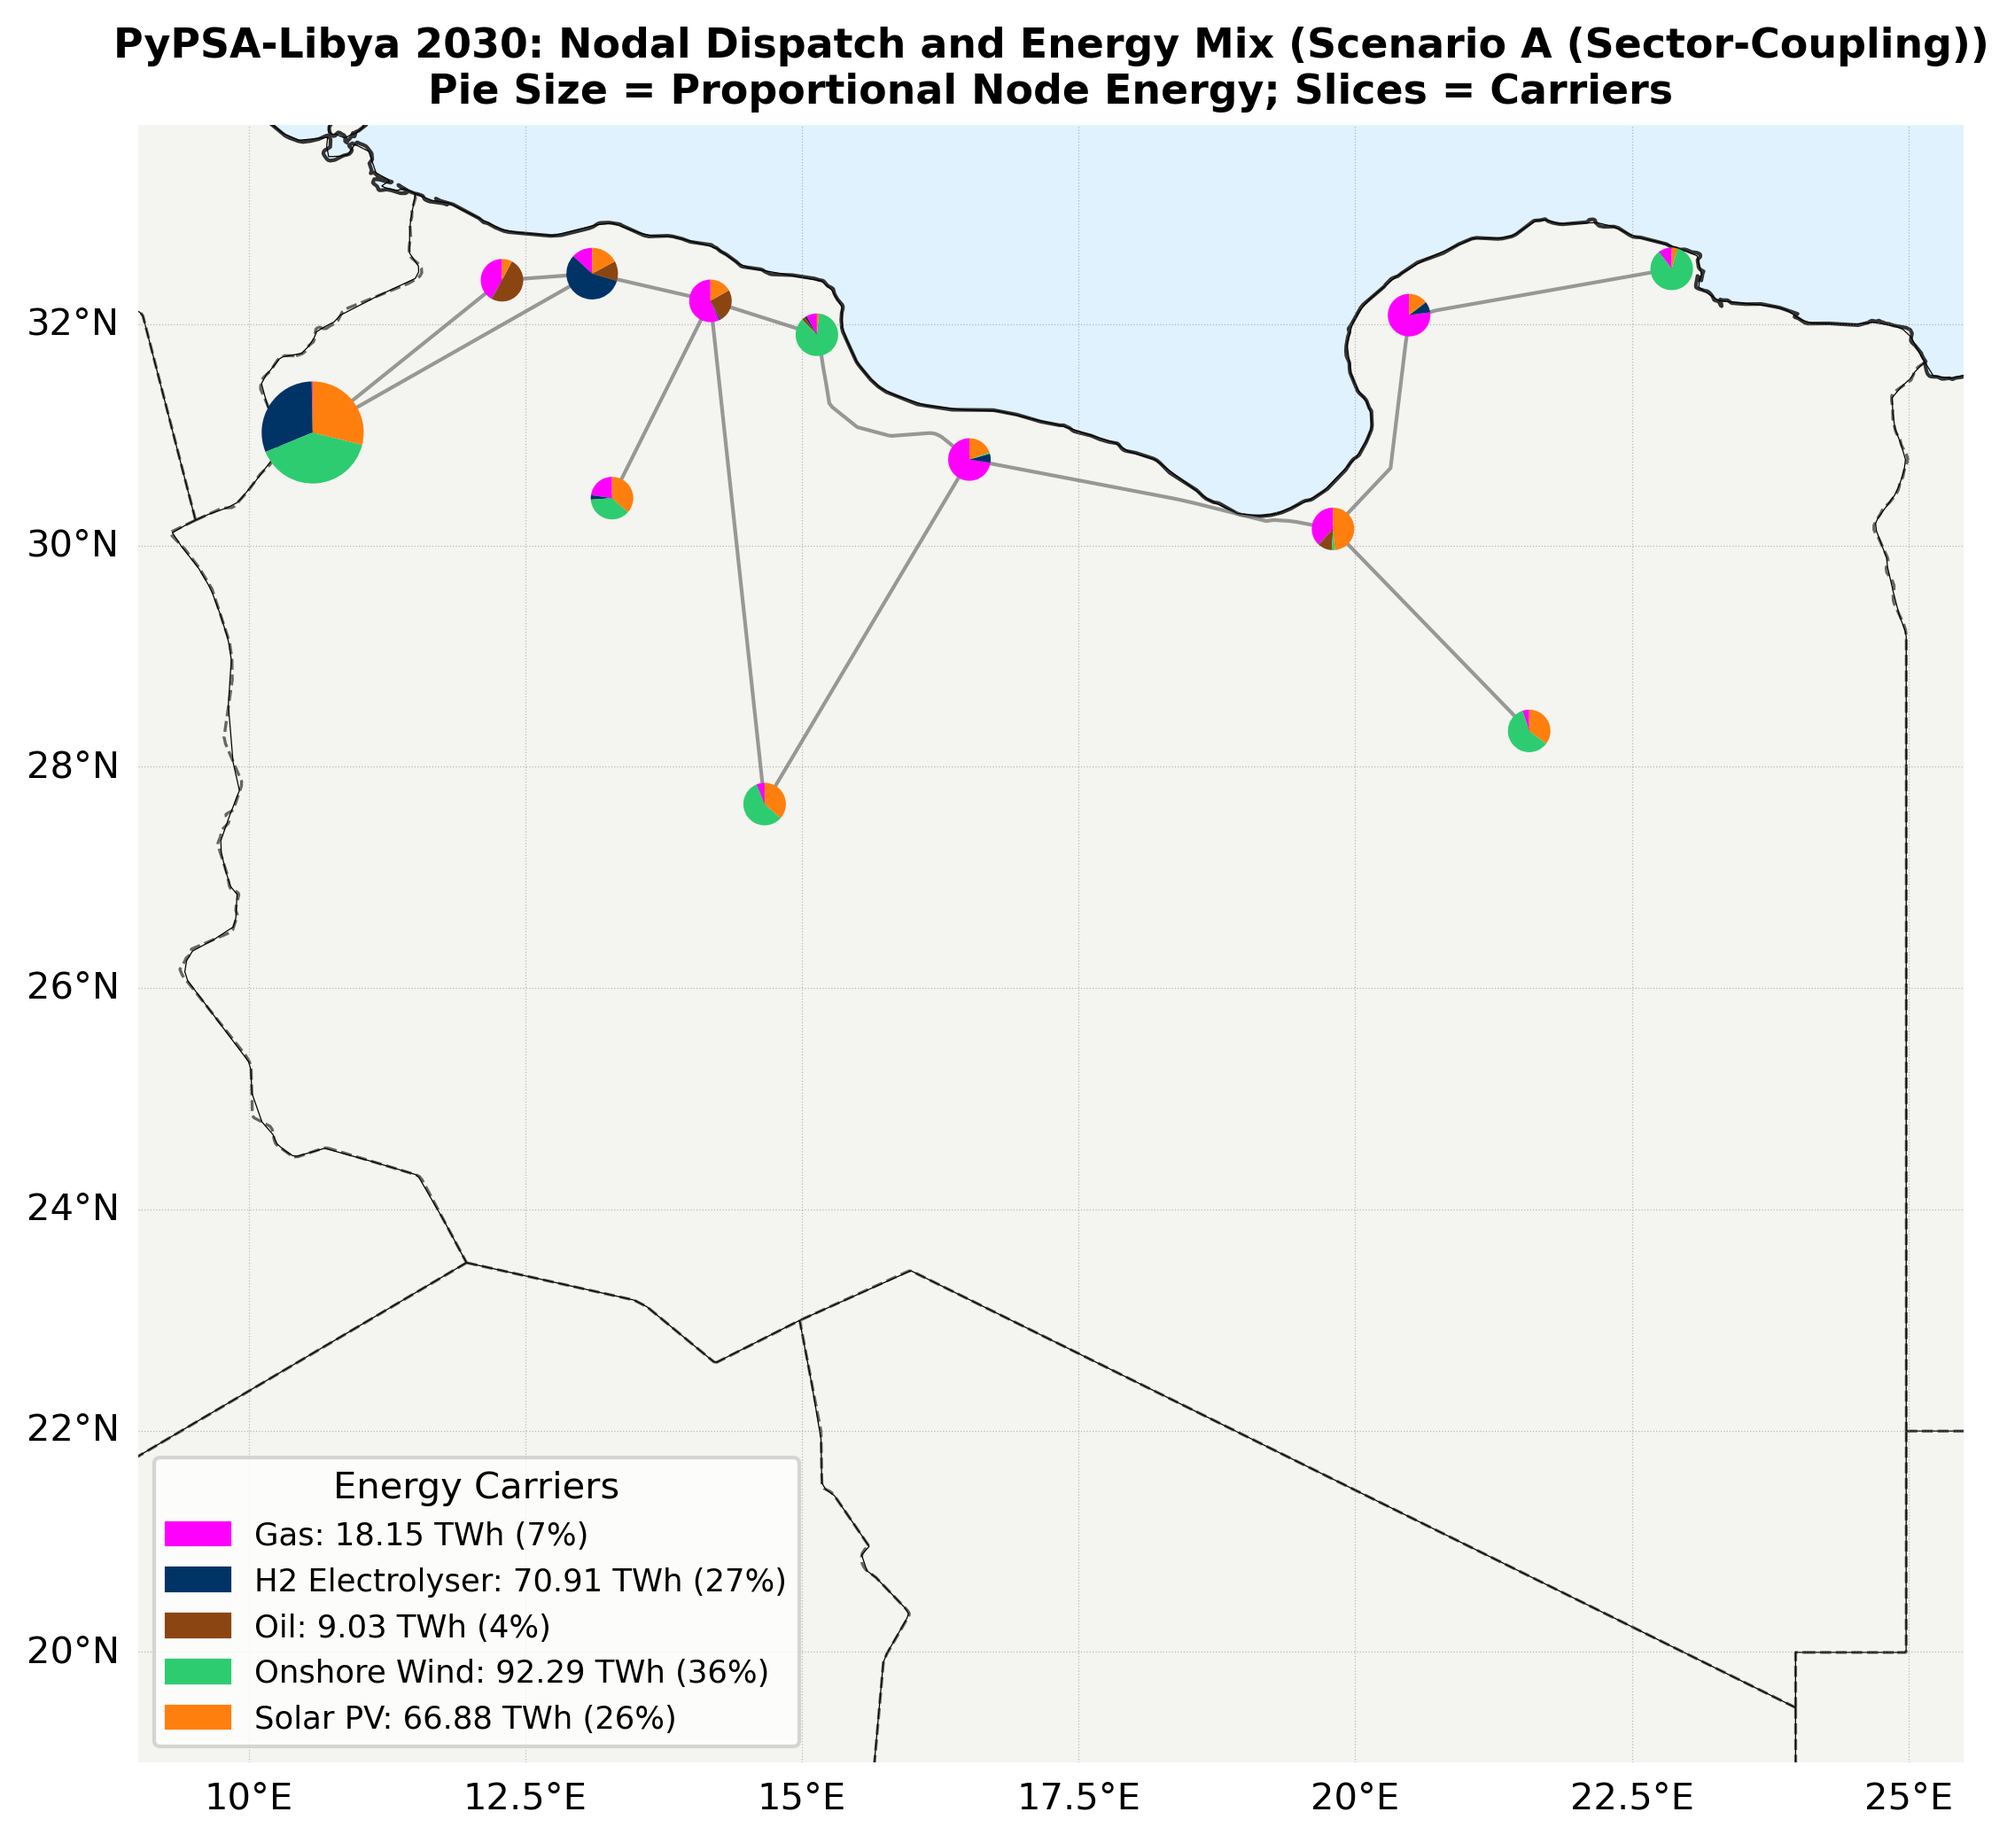
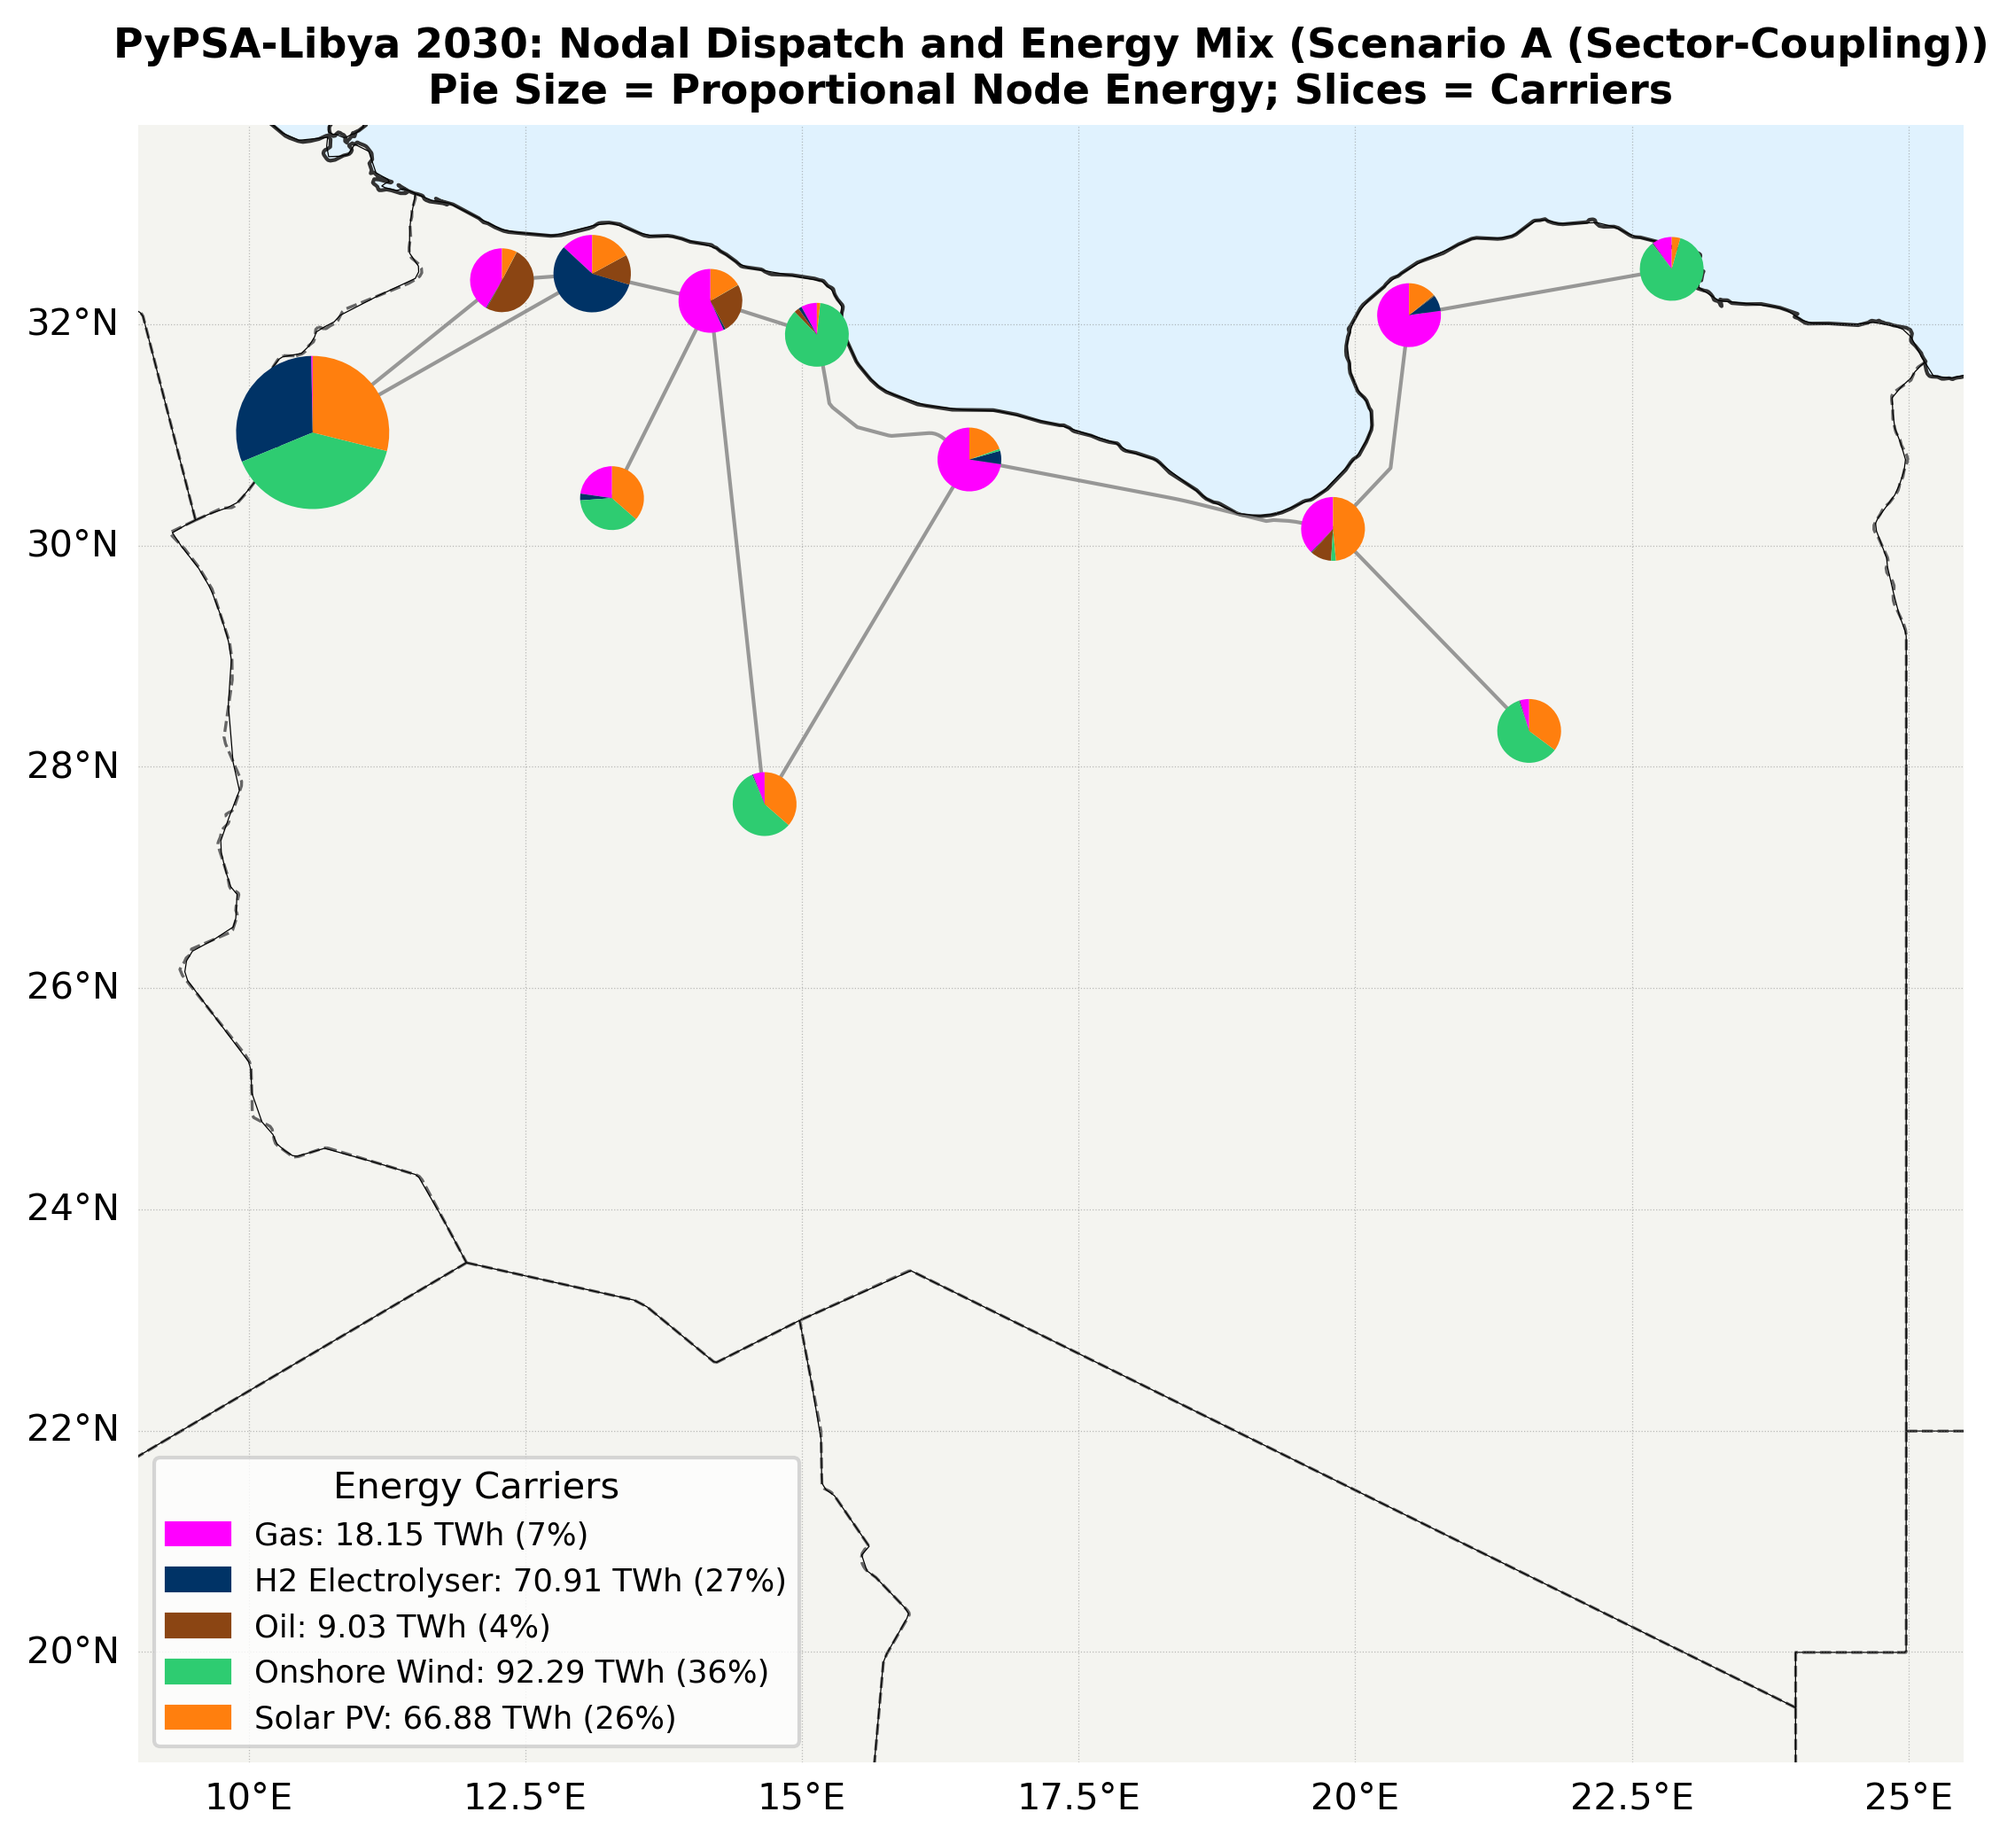
Add files via upload

diff --git a/viz_outputs/Validate_Energy_Conservation_All_Carriers/validate_all_carriers_energy_conservation.py b/viz_outputs/Validate_Energy_Conservation_All_Carriers/validate_all_carriers_energy_conservation.py
@@ -29,6 +29,10 @@ logging.getLogger("pypsa").setLevel(logging.ERROR)
 
 OUTPUT_DIR_BASE = r"C:\Users\Mhdella\Documents\pypsa-libya\viz_outputs\Validate_Energy_Conservation_All_Carriers"
 
+### Adjustable key/threshold for scaling the size of all pie charts proportionally
+PIE_SCALE_FACTOR = 1.5  # Change this to 1.0 for original size, 1.5 to increase by 50%, etc.
+
+
 SCENARIOS = [
     {
         "name": "LCO2 (Electricity-only)",
@@ -796,8 +800,10 @@ if __name__ == "__main__":
                     ax.plot(xs, ys, color="gray", lw=1.0, alpha=0.8, zorder=1)
 
         max_energy = nodal_mix.sum(axis=1).max() if not nodal_mix.empty and nodal_mix.sum(axis=1).max() > 0 else 1.0
-        base_pie_size = 0.06
-        min_pie_size = 0.025
+        
+        # Apply the adjustable scale factor here
+        base_pie_size = 0.06 * PIE_SCALE_FACTOR
+        min_pie_size = 0.025 * PIE_SCALE_FACTOR
 
         fig.canvas.draw()
         present_carriers = set()
